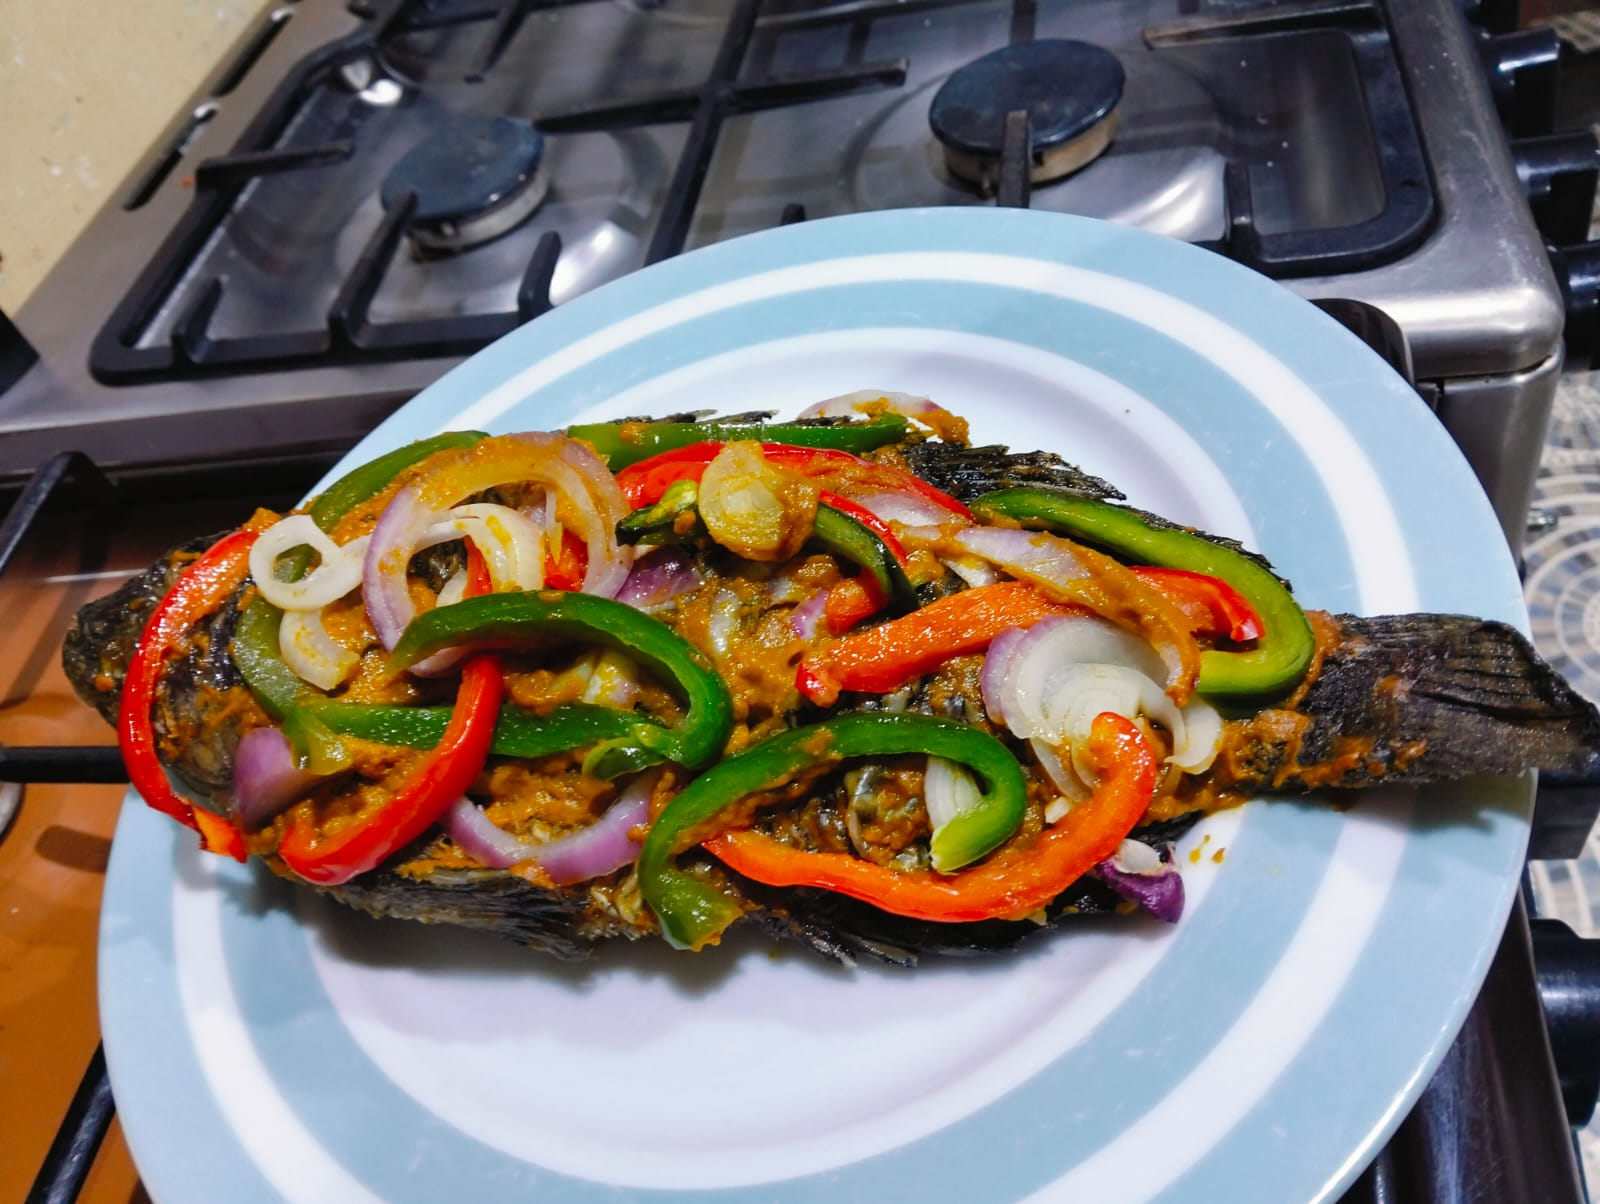
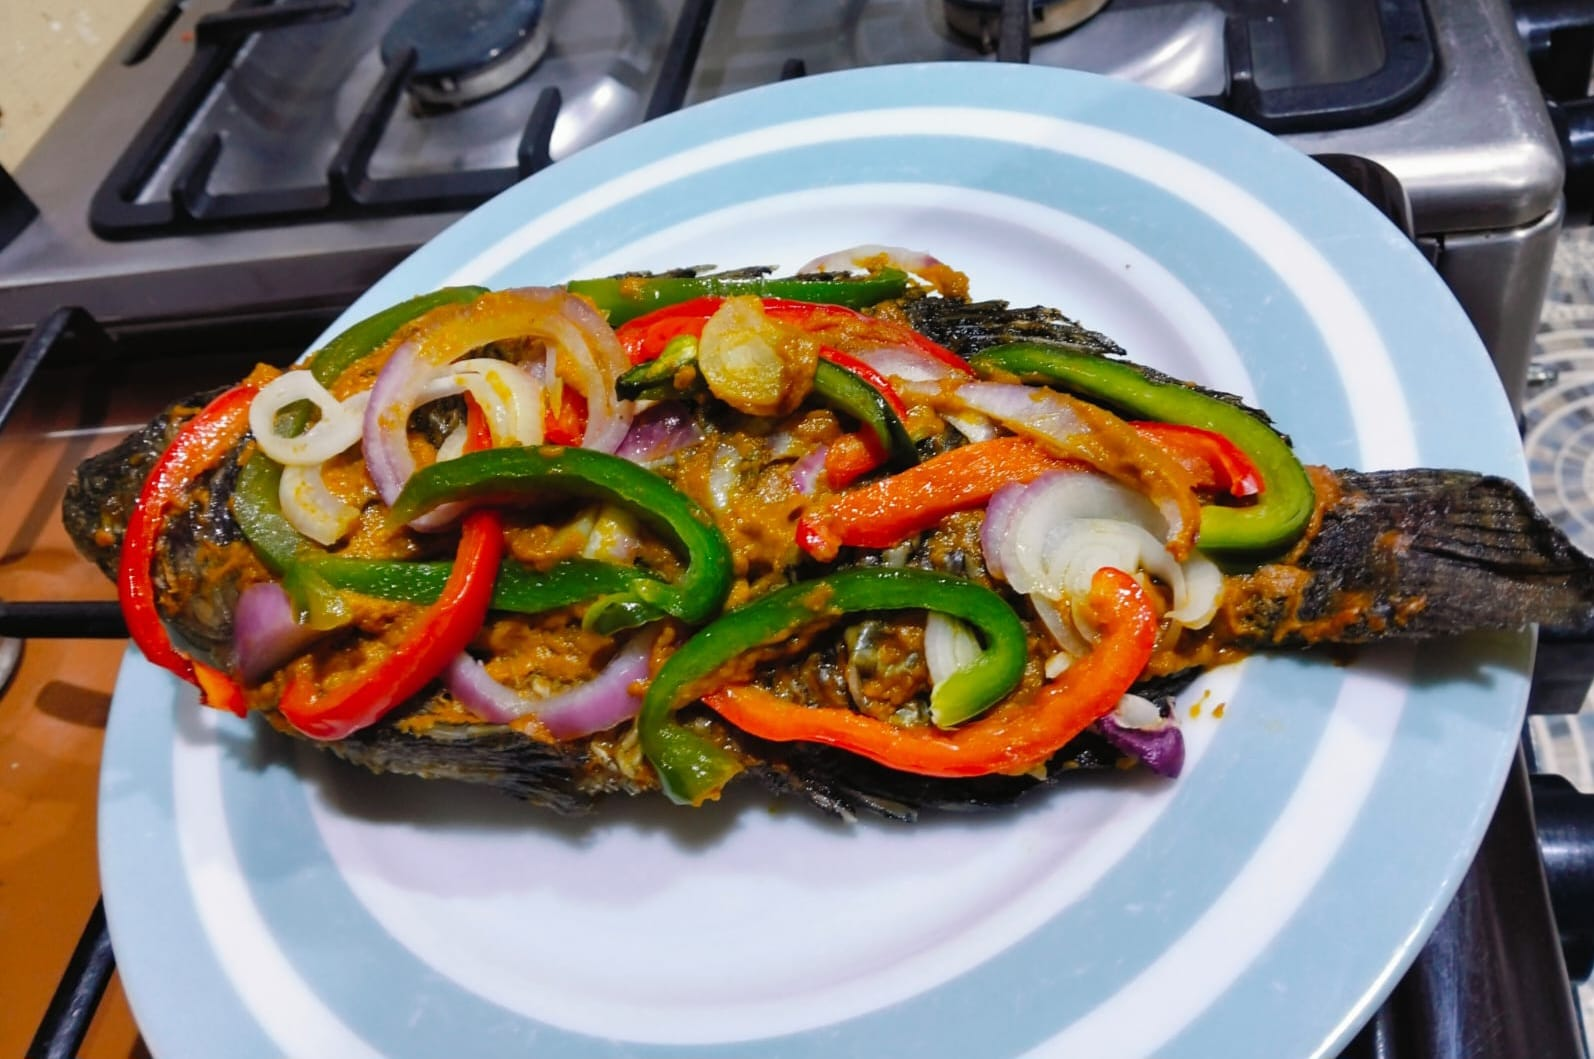
Add files via upload

diff --git a/index.html b/index.html
@@ -160,7 +160,7 @@
   <!-- Hero Section -->
   <section class="hero">
     <h1 class="brand-title">Luiza Bytes Catering</h1>
-    <p class="tagline">Delicious moments for every occasion</p>
+    <p class="tagline">From our kitchen to your occasion — authentic African home preps</p>
     <a href="https://wa.me/254723357393" target="_blank" class="btn btn-warning btn-lg mt-3">
       Book Us Now on WhatsApp
     </a>
@@ -173,8 +173,8 @@
 
       <div class="col-sm-6 col-md-4">
         <div class="menu-card">
-          <img src="fish.jpg" alt="Grilled Fish" class="img-fluid">
-          <h5 class="mt-2 text-center">Grilled Fish</h5>
+          <img src="fish.jpeg" alt="Fish" class="img-fluid">
+          <h5 class="mt-2 text-center">Fish</h5>
           <!-- ✏ Change price below -->
           <p class="price-tag">KSh 600</p>
         </div>
@@ -183,7 +183,7 @@
       <div class="col-sm-6 col-md-4">
         <div class="menu-card">
           <img src="samosa.jpg" alt="Samosas" class="img-fluid">
-          <h5 class="mt-2 text-center">Crispy Samosas</h5>
+          <h5 class="mt-2 text-center">Samosas</h5>
           <!-- ✏ Change price below -->
           <p class="price-tag">KSh 50</p>
         </div>
@@ -192,7 +192,7 @@
       <div class="col-sm-6 col-md-4">
         <div class="menu-card">
           <img src="chapati.jpeg" alt="Chapatis" class="img-fluid">
-          <h5 class="mt-2 text-center">Soft Chapatis</h5>
+          <h5 class="mt-2 text-center">Chapatis</h5>
           <!-- ✏ Change price below -->
           <p class="price-tag">KSh 60</p>
         </div>
@@ -200,8 +200,8 @@
 
       <div class="col-sm-6 col-md-4">
         <div class="menu-card">
-          <img src="beef spring rolls.jpg" alt="Spring Rolls" class="img-fluid">
-          <h5 class="mt-2 text-center">Crispy Spring Rolls</h5>
+          <img src="springrolls.jpeg" alt="Spring Rolls" class="img-fluid">
+          <h5 class="mt-2 text-center">Spring Rolls</h5>
           <!-- ✏ Change price below -->
           <p class="price-tag">KSh 150</p>
         </div>
@@ -209,19 +209,19 @@
 
       <div class="col-sm-6 col-md-4">
         <div class="menu-card">
-          <img src="bread.jpg" alt="Bread" class="img-fluid">
-          <h5 class="mt-2 text-center">Delicious Bread</h5>
+          <img src="pancakes.jpeg" alt="Pancakes" class="img-fluid">
+          <h5 class="mt-2 text-center">Pancakes</h5>
           <!-- ✏ Change price below -->
-          <p class="price-tag">KSh 200</p>
+          <p class="price-tag">KSh 100</p>
         </div>
       </div>
 
       <div class="col-sm-6 col-md-4">
         <div class="menu-card">
-          <img src="cakes.jpg" alt="Cakes" class="img-fluid">
-          <h5 class="mt-2 text-center">Cakes</h5>
+          <img src="matoke.jpeg" alt="Matoke" class="img-fluid">
+          <h5 class="mt-2 text-center">Matoke</h5>
           <!-- ✏ Change price below -->
-          <p class="price-tag">KSh 200</p>
+          <p class="price-tag">KSh 150</p>
         </div>
       </div>
 
@@ -249,7 +249,7 @@
              ════════════════════════════════════════════ -->
 
         <div class="full-menu-row">
-          <span class="fm-name">Grilled Fish</span>
+          <span class="fm-name">Fish</span>
           <span class="fm-dots"></span>
           <span class="fm-price">KSh 600</span>
         </div>
@@ -280,26 +280,39 @@
         </div>
         <!-- ✏ ADD NEW ITEMS BELOW THIS LINE -->
         <div class="full-menu-row">
-          <span class="fm-name">Boiled Eggs (2 pcs)</span>
+          <span class="fm-name">Fries 1 Plate</span>
           <span class="fm-dots"></span>
-          <span class="fm-price">KSh 40</span>
+          <span class="fm-price">KSh 150</span>
         </div>
         <div class="full-menu-row">
-          <span class="fm-name">Scrambled Eggs</span>
+          <span class="fm-name">Chicken</span>
+          <span class="fm-dots"></span>
+          <span class="fm-price">KSh 450</span>
+        </div>
+        <div class="full-menu-row">
+          <span class="fm-name">Eggs</span>
           <span class="fm-dots"></span>
           <span class="fm-price">KSh 80</span>
         </div>
-        <div class="full-menu-row">
-          <span class="fm-name">Fried Eggs</span>
+         <div class="full-menu-row">
+          <span class="fm-name">Mokimo</span>
           <span class="fm-dots"></span>
-          <span class="fm-price">KSh 60</span>
+          <span class="fm-price">KSh 150</span>
+        </div>
+         <div class="full-menu-row">
+          <span class="fm-name">Nduma/Ngwashe</span>
+          <span class="fm-dots"></span>
+          <span class="fm-price">KSh 100</span>
         </div>
         
           <div class="full-menu-row">
-          <span class="fm-name">Office Breakfast Plans</span>
+          <span class="fm-name">Office Breakfast Plans.</span>
         </div>
           <div class="full-menu-row">
           <span class="fm-name">Variety of traditional Greens.</span>
+        </div>
+         <div class="full-menu-row">
+          <span class="fm-name">Custom made Meal Timetables.</span>
         </div>
         <!-- ✏ Keep adding rows here as your menu grows -->
 
